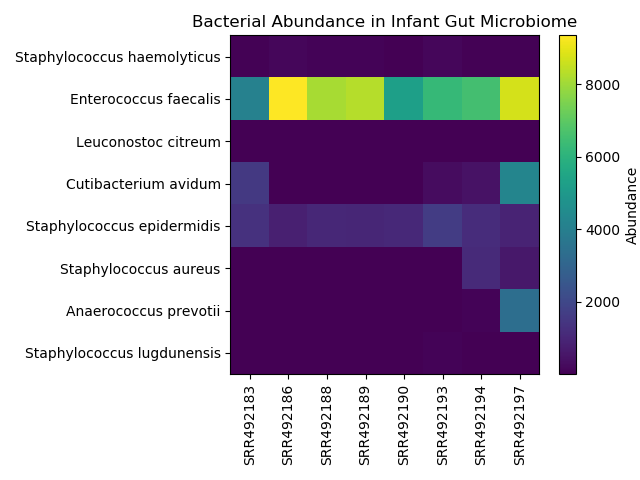
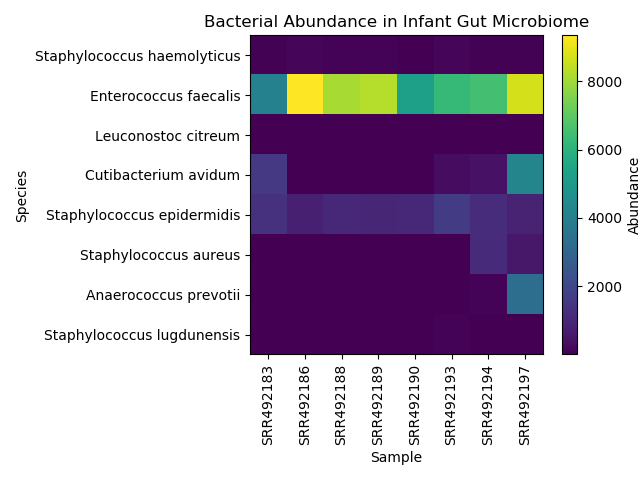
Add changes to heatmap

Changed region(s): [[0.0312, 0.0312, 1.0, 0.9688]]

diff --git a/week13/02-heatmap_maker.py b/week13/02-heatmap_maker.py
@@ -1,7 +1,5 @@
 #!/usr/bin/env python
 
-
-
 import sys
 import matplotlib.pyplot as plt
 import numpy as np
@@ -9,7 +7,7 @@ import pandas as pd
 
 """
 
-./01-heatmap_maker.py abundance_table.tab
+./02-heatmap_maker.py abundance_table.tab
 
 """   
 
@@ -30,7 +28,9 @@ for i in df_samples.index.tolist():
 plt.figure()
 plt.imshow(df_samples, aspect='auto', interpolation='nearest')
 plt.title("Bacterial Abundance in Infant Gut Microbiome")
+plt.xlabel("Sample")
 plt.xticks(range(len(df_samples.columns)), df_samples.columns, rotation='vertical')
+plt.ylabel("Species")
 plt.yticks([x for x in range(len(bins))], bins)
 plt.colorbar(label='Abundance')
 plt.tight_layout()
